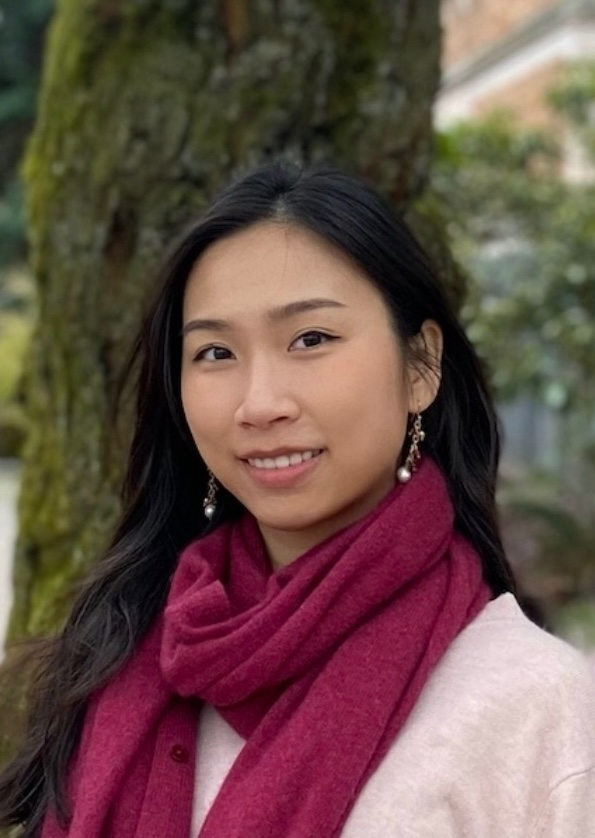
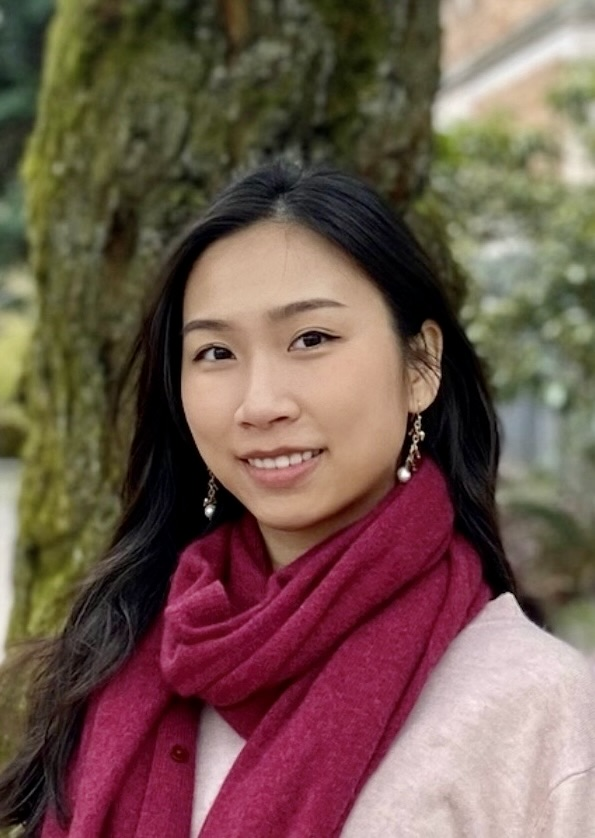
Added picture in about me page

diff --git a/About.html b/About.html
@@ -285,6 +285,7 @@ $(document).ready(function () {
 </div>
 
 
+<p><img src="files/me.jpeg" style="width:30%"></p>
 <p>My name is Serena and I am second year MPH student at Columbia
 University Mailman School of Public Health. My field of interest in
 Epidemiology is pediatric infectious diseases. Below is a link to my
